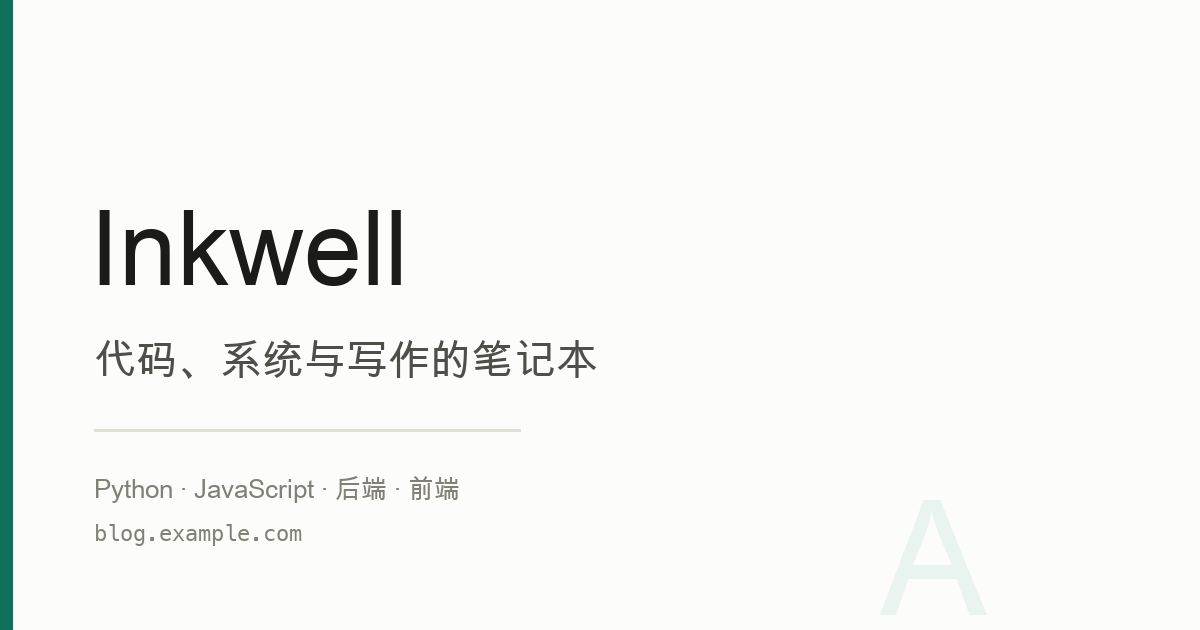
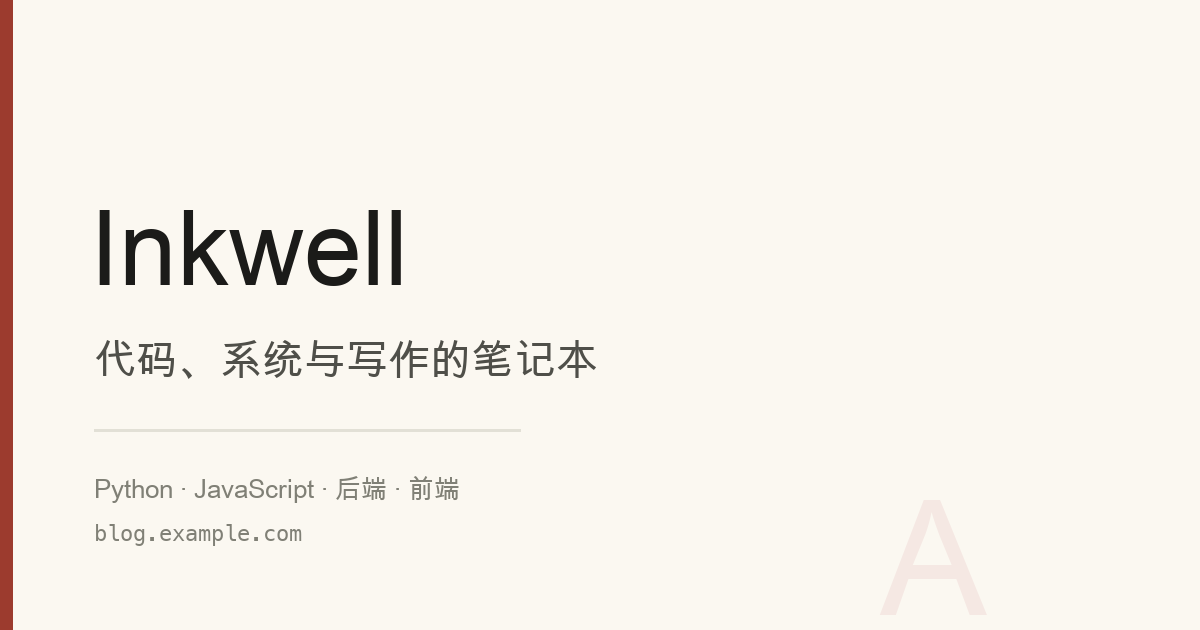
style: 默认皮肤改为杂志，品牌色同步换成砖红

Changed region(s): [[0.0, 0.0, 0.0308, 1.0]]

diff --git a/tools/make-images.py b/tools/make-images.py
@@ -16,12 +16,12 @@ ROOT = Path(__file__).resolve().parent.parent
 POST_ASSETS = ROOT / "src" / "content" / "posts" / "assets"
 PUBLIC = ROOT / "public"
 
-BG = (252, 252, 250)
+BG = (251, 248, 241)
 INK = (27, 27, 25)
 MUTED = (128, 128, 118)
 LINE = (226, 224, 214)
-ACCENT = (14, 111, 91)
-ACCENT_SOFT = (233, 243, 239)
+ACCENT = (156, 59, 46)
+ACCENT_SOFT = (245, 232, 227)
 
 ARIAL = "/System/Library/Fonts/Supplemental/Arial.ttf"
 ARIAL_UNICODE = "/System/Library/Fonts/Supplemental/Arial Unicode.ttf"
@@ -206,11 +206,11 @@ def make_og() -> Path:
 
 def make_touch_icon() -> Path:
     size = 180
-    image = Image.new("RGB", (size, size), (14, 111, 91))
+    image = Image.new("RGB", (size, size), (156, 59, 46))
     draw = ImageDraw.Draw(image)
-    draw.rounded_rectangle((44, 58, 136, 122), radius=26, fill=(252, 252, 250))
-    draw.rounded_rectangle((62, 72, 118, 82), radius=5, fill=(14, 111, 91))
-    draw.rounded_rectangle((62, 94, 100, 104), radius=5, fill=(14, 111, 91))
+    draw.rounded_rectangle((44, 58, 136, 122), radius=26, fill=(251, 248, 241))
+    draw.rounded_rectangle((62, 72, 118, 82), radius=5, fill=(156, 59, 46))
+    draw.rounded_rectangle((62, 94, 100, 104), radius=5, fill=(156, 59, 46))
     target = PUBLIC / "apple-touch-icon.png"
     image.save(target, optimize=True)
     return target

diff --git a/README.md b/README.md
@@ -239,11 +239,11 @@ export const SITE = {
 
 | 皮肤 | 特征 |
 |---|---|
-| `paper`（默认） | 暖白纸感、无衬线标题、松绿强调，最清淡 |
-| `editorial` | 象牙纸色、宋体标题、砖红强调，偏杂志阅读 |
+| `paper` | 暖白纸感、无衬线标题、松绿强调，最清淡 |
+| `editorial`（默认） | 象牙纸色、宋体标题、砖红强调，偏杂志阅读 |
 | `terminal` | 近黑底 + 荧光绿、等宽标题、直角边框，偏代码 |
 
-变量集中在 `src/styles/global.css` 的「12. 皮肤」一节。想换默认皮肤，改 `src/layouts/BaseLayout.astro` 里 boot 脚本的最后那个 fallback（`'paper'`）。
+变量集中在 `src/styles/global.css` 的「12. 皮肤」一节。想换默认皮肤，改 `src/layouts/BaseLayout.astro`：`<html data-skin="...">` 和 boot 脚本里的 fallback（现在是 `'editorial'`）两处。
 
 临时预览：`?skin=editorial`、`?skin=terminal`，可以和 `?theme=dark` 组合。
 
